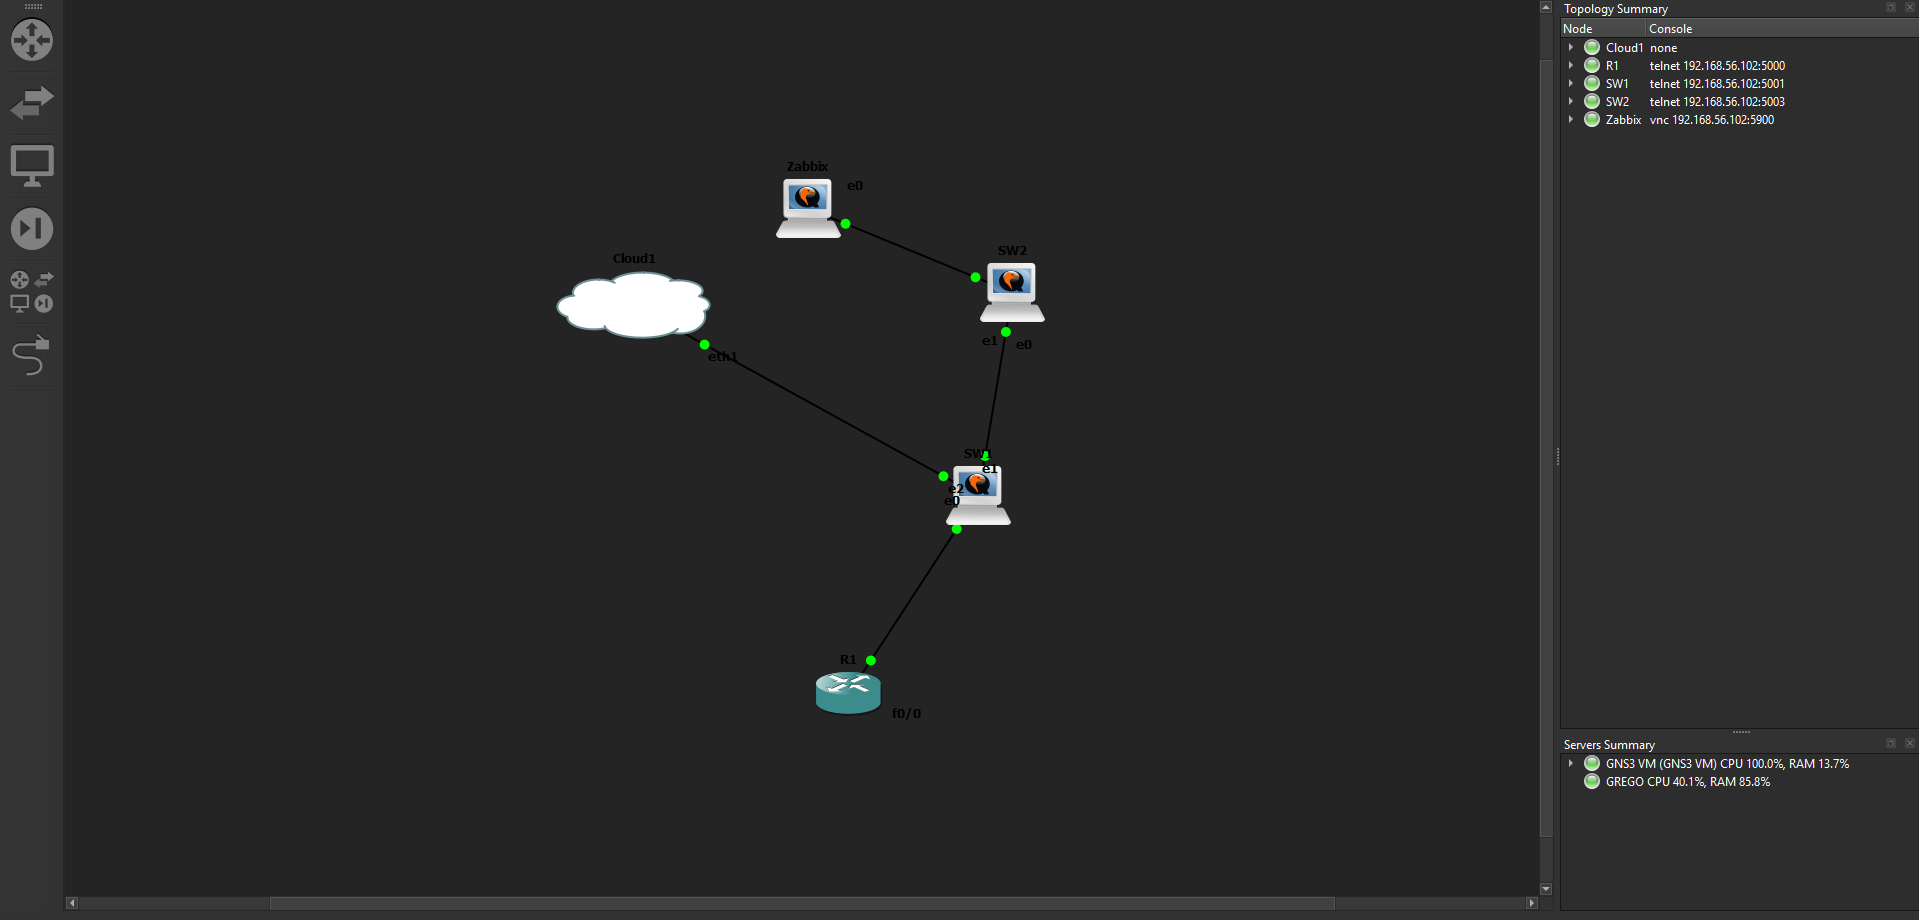
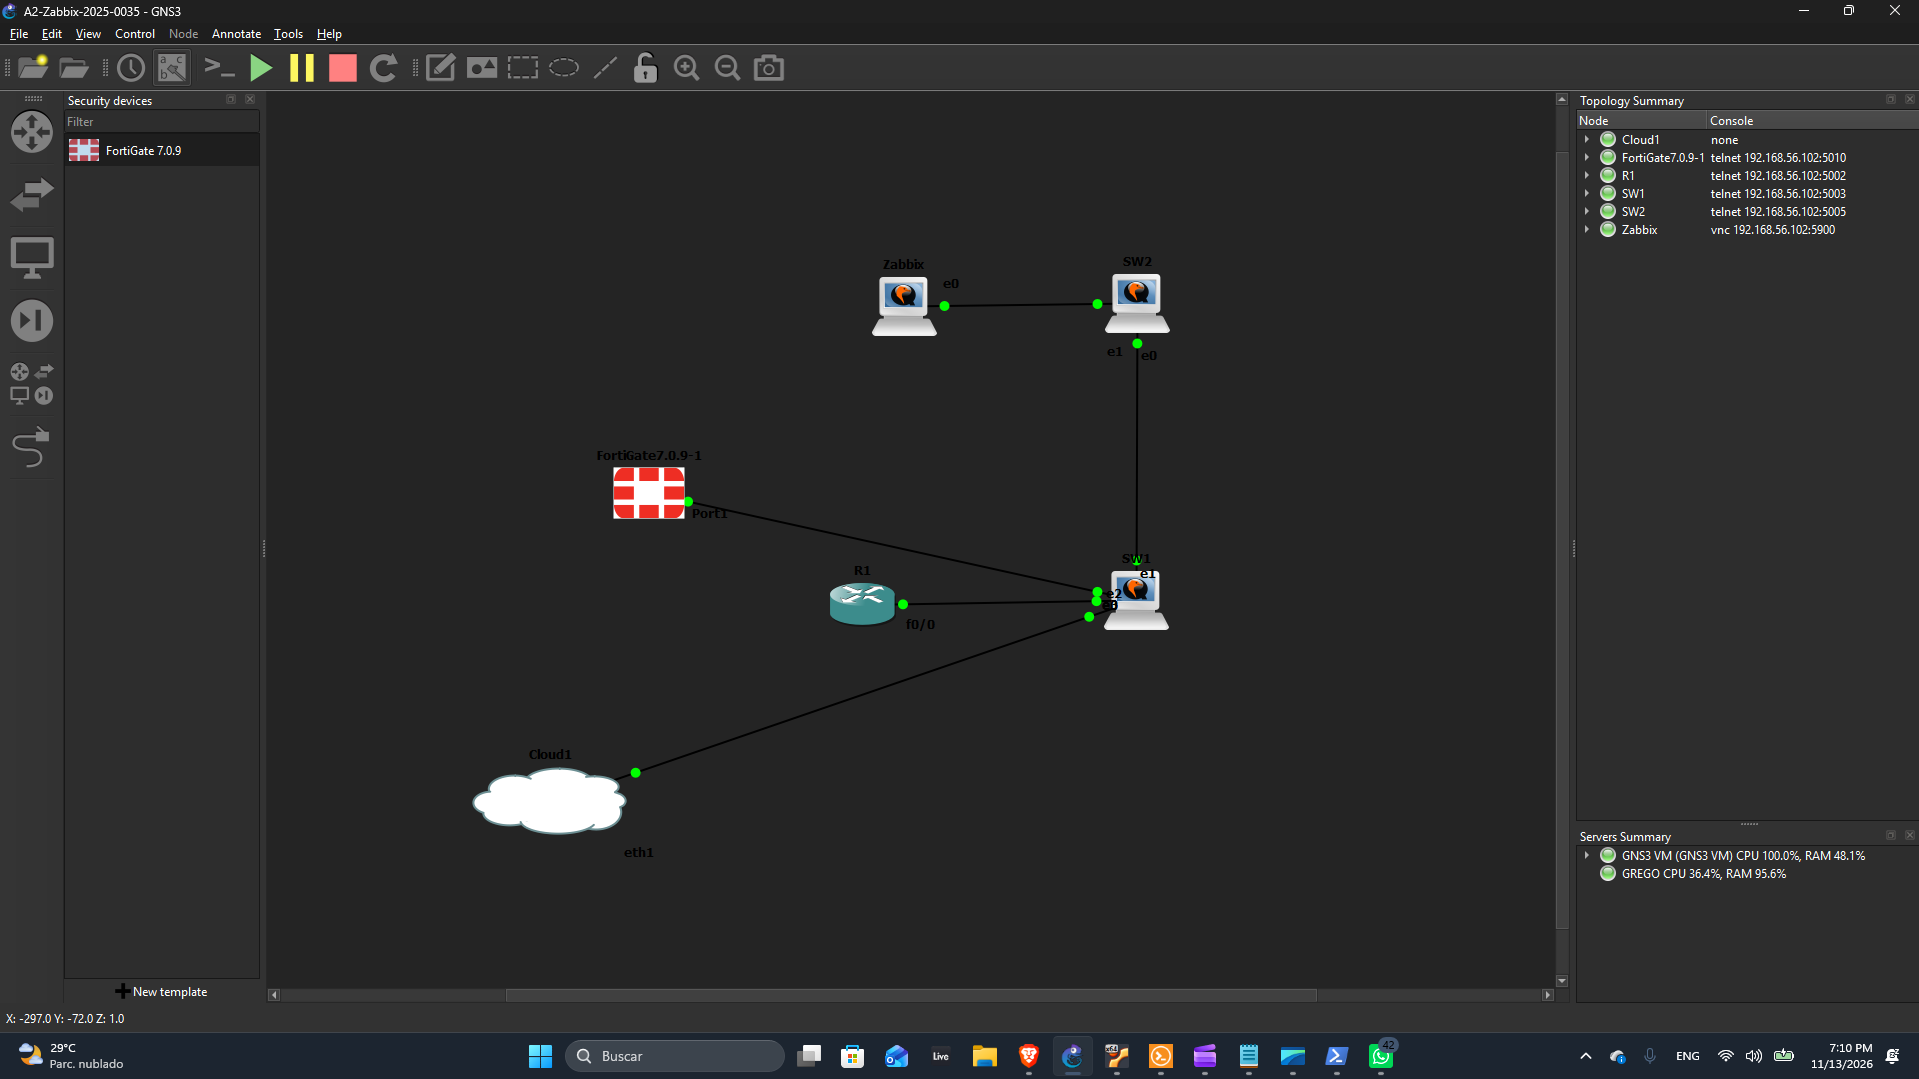
A3: topología actualizada con FW1 y puertos de consola
Claude-Session: https://claude.ai/code/session_013XkWsgxg6avwva9xyZfrMx

diff --git a/README.md b/README.md
@@ -33,9 +33,9 @@ El direccionamiento se deriva de la matrícula **2025-0035**: red **10.20.35.0/2
 
 | Equipo | Modelo | Rol | IP de gestión | Consola GNS3 |
 |---|---|---|---|---|
-| R1 | Cisco 7200 (IOS 15.2) | Router | 10.20.35.1/24 (Fa0/0) | 192.168.56.102:5000 |
-| SW1 | Cisco IOSvL2 | Switch | 10.20.35.2/24 (Vlan1) | 192.168.56.102:5001 |
-| SW2 | Cisco IOSvL2 | Switch | 10.20.35.3/24 (Vlan1) | 192.168.56.102:5003 |
+| R1 | Cisco 7200 (IOS 15.2) | Router | 10.20.35.1/24 (Fa0/0) | 192.168.56.102:5002 |
+| SW1 | Cisco IOSvL2 | Switch | 10.20.35.2/24 (Vlan1) | 192.168.56.102:5003 |
+| SW2 | Cisco IOSvL2 | Switch | 10.20.35.3/24 (Vlan1) | 192.168.56.102:5005 |
 | FW1 | FortiGate 7.0.9 (VM) | Firewall | 10.20.35.4/24 (port1, conectado a SW1 Gi0/3) | 192.168.56.102:5010 |
 
 Entorno: GNS3 2.2 + GNS3 VM (VirtualBox). La misma red de la práctica anterior, ahora endurecida.
